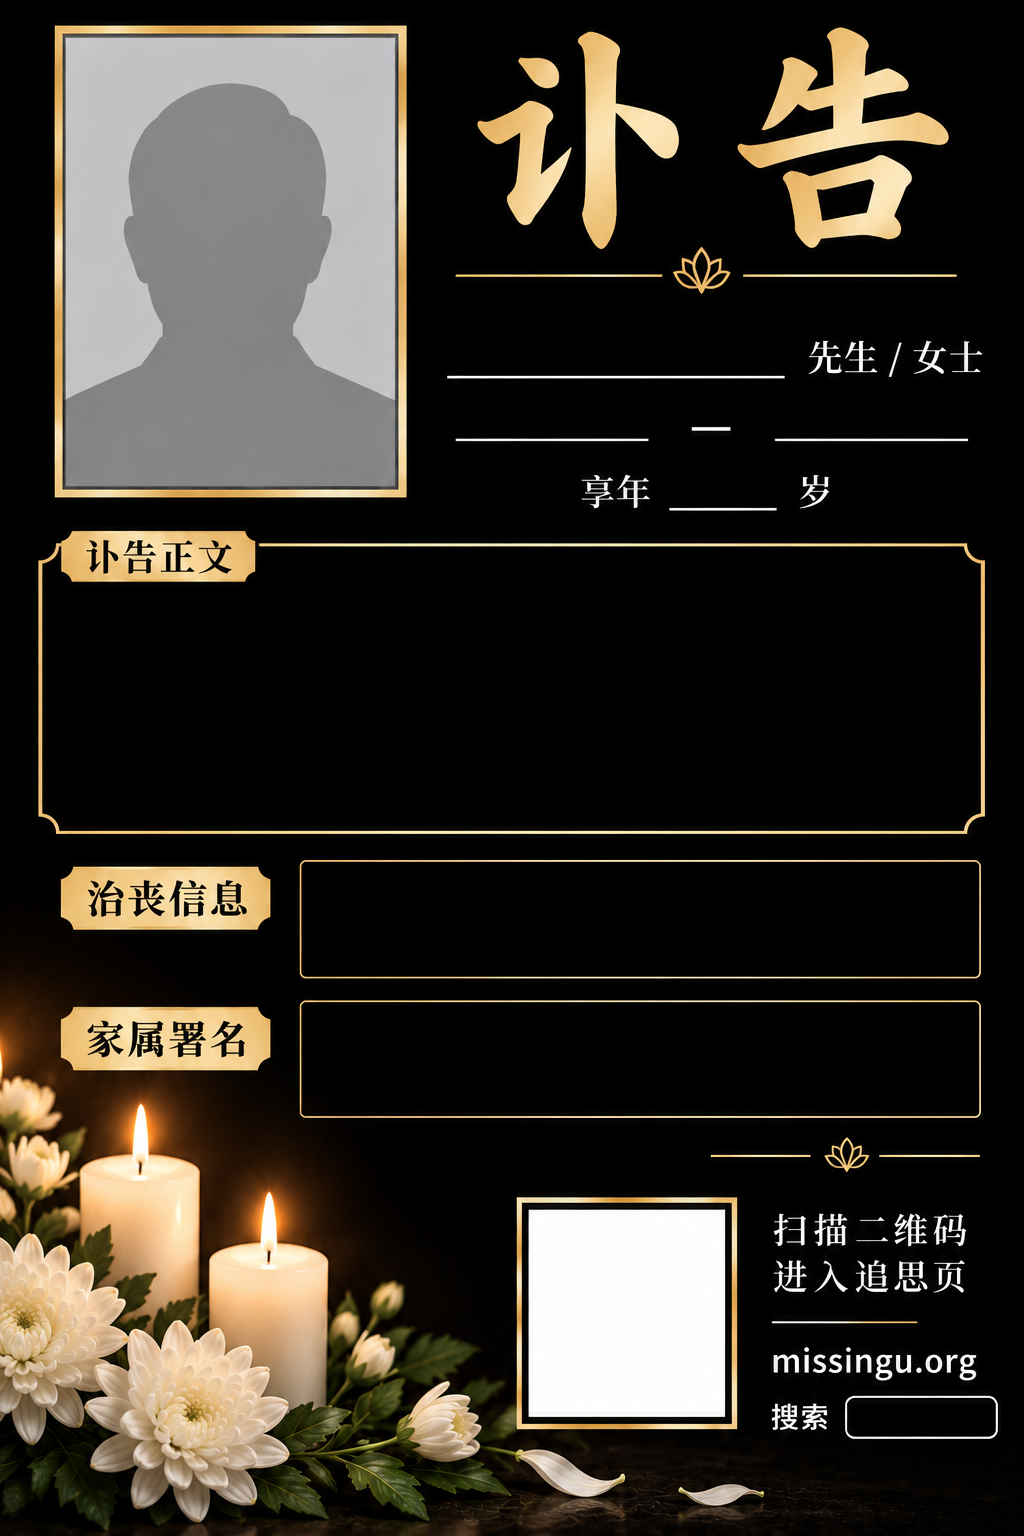
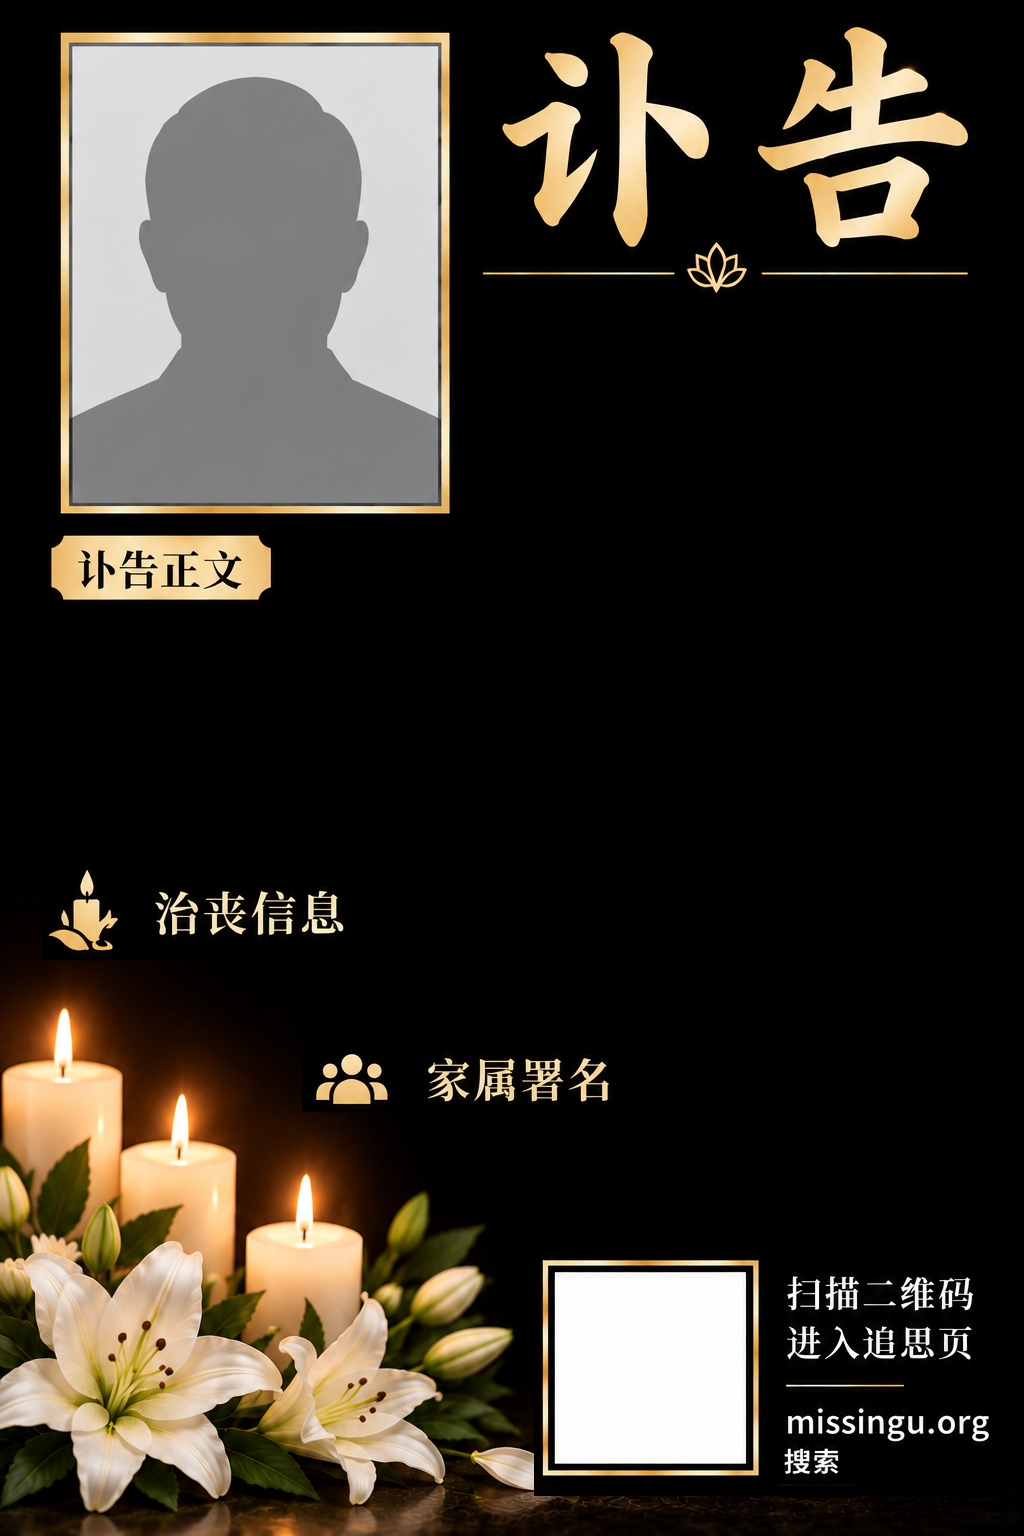
feat: 讣告海报适配新模板(去辅助线),重新定位姓名/称谓/生卒/享年/正文/治丧/署名/QR/编号,字体字号统一

diff --git a/memorial-platform/app/[locale]/memorials/[slug]/obituary/obituary-poster.ts b/memorial-platform/app/[locale]/memorials/[slug]/obituary/obituary-poster.ts
@@ -1,27 +1,26 @@
-// Draws the 讣告 poster by overlaying dynamic content onto the fixed black-gold
-// template (public/obituary/template-zh.png, 1024×1536). Every slot coordinate
-// is expressed in that 1024×1536 space; the template art is authoritative, this
-// module only fills the blanks.
+// Draws the 讣告 poster by overlaying dynamic content onto the black-gold
+// template (public/obituary/template-zh.png, 1024×1536). The template carries
+// only the fixed art and section labels (讣告 / 讣告正文 / 治丧信息 / 家属署名 /
+// QR / 搜索); everything else — name, honorific, dates, 享年, the body and the
+// section contents — is drawn here. Coordinates are in the 1024×1536 authoring
+// space and scaled to the template's real pixels at render time.
 
 export type PosterInput = {
   name: string;
   birth: string | null;
   death: string | null;
-  /** 享年 digits only (the template prints "享年 ___ 岁"). */
+  /** 享年 digits only; drawn as "享年 N 岁". */
   age: string | null;
-  /** male → 先生, female → 女士, null → leave the template's "先生 / 女士". */
+  /** male → 先生, female → 女士, null → no honorific. */
   gender: "male" | "female" | null;
   body: string;
   service: string | null;
   survivors: string | null;
-  /** Same-origin URL only (else the canvas taints and export fails). */
+  /** Same-origin/data URL only (a signed cross-origin URL taints the canvas). */
   portraitUrl: string | null;
   number: string | null;
 };
 
-// Slot coordinates are authored in this reference space; the renderer scales
-// them to the template image's real pixel size, so dropping in a higher-res
-// template (e.g. 2048×3072) sharpens everything with no code change.
 export const POSTER_W = 1024;
 export const POSTER_H = 1536;
 const TEMPLATE_SRC = "/obituary/template-zh.png";
@@ -40,24 +39,14 @@ function loadImage(src: string): Promise<HTMLImageElement> {
   });
 }
 
-/** Draw `text` centred at cx, shrinking the font until it fits maxW. */
-function fitCenter(
+function measure(
   ctx: CanvasRenderingContext2D,
   text: string,
-  cx: number,
-  baseline: number,
-  maxW: number,
-  startPx: number,
-  weight = "700",
-): void {
-  let px = startPx;
-  ctx.textAlign = "center";
-  do {
-    ctx.font = `${weight} ${px}px ${SERIF}`;
-    if (ctx.measureText(text).width <= maxW || px <= 18) break;
-    px -= 2;
-  } while (true);
-  ctx.fillText(text, cx, baseline);
+  px: number,
+  weight: string,
+): number {
+  ctx.font = `${weight} ${px}px ${SERIF}`;
+  return ctx.measureText(text).width;
 }
 
 /** Wrap text (respecting explicit newlines) to lines no wider than maxW. */
@@ -82,20 +71,12 @@ function wrapLines(
   return out;
 }
 
-/**
- * Renders the poster onto `ctx` (which must be a 1024×1536 context). `qr` is a
- * pre-rendered QR canvas/image (drawn into the template's white box); pass null
- * to leave it blank.
- */
 export async function drawObituaryPoster(
   ctx: CanvasRenderingContext2D,
   data: PosterInput,
   qr: HTMLCanvasElement | HTMLImageElement | null,
 ): Promise<void> {
   const template = await loadImage(TEMPLATE_SRC);
-  // Match the canvas to the template's real pixels, then scale the coordinate
-  // system back to the 1024×1536 authoring space so every slot lands correctly
-  // at whatever resolution the template ships at.
   const natW = template.naturalWidth || POSTER_W;
   const natH = template.naturalHeight || POSTER_H;
   ctx.canvas.width = natW;
@@ -107,17 +88,21 @@ export async function drawObituaryPoster(
   if (data.portraitUrl) {
     try {
       const img = await loadImage(data.portraitUrl);
-      const box = { x: 62, y: 46, w: 344, h: 456 };
+      const box = { x: 66, y: 46, w: 384, h: 466 };
       const scale = Math.max(box.w / img.width, box.h / img.height);
       const dw = img.width * scale;
       const dh = img.height * scale;
-      const dx = box.x + (box.w - dw) / 2;
-      const dy = box.y + (box.h - dh) / 2;
       ctx.save();
       ctx.beginPath();
       ctx.rect(box.x, box.y, box.w, box.h);
       ctx.clip();
-      ctx.drawImage(img, dx, dy, dw, dh);
+      ctx.drawImage(
+        img,
+        box.x + (box.w - dw) / 2,
+        box.y + (box.h - dh) / 2,
+        dw,
+        dh,
+      );
       ctx.restore();
     } catch {
       /* leave the placeholder silhouette */
@@ -126,77 +111,102 @@ export async function drawObituaryPoster(
 
   ctx.fillStyle = WHITE;
 
-  // Name — on the underline left of "先生 / 女士".
-  fitCenter(ctx, data.name, 617, 372, 330, 56);
-
-  // Honorific — keep only the one matching gender by painting over the printed
-  // "先生 / 女士" (solid black ground) and redrawing a single word.
-  if (data.gender) {
-    ctx.fillStyle = "#000000";
-    ctx.fillRect(793, 344, 200, 66);
-    ctx.fillStyle = WHITE;
+  // Name + honorific, centred in the right column beneath the 讣告 title.
+  const RIGHT_CX = 740;
+  {
+    const hon = data.gender
+      ? data.gender === "male"
+        ? "先生"
+        : "女士"
+      : "";
+    let namePx = 64;
+    const honPx = 36;
+    const gap = 14;
+    // Shrink the name until the whole name+honorific group fits the column.
+    const maxW = 470;
+    let nameW = measure(ctx, data.name, namePx, "700");
+    let honW = hon ? measure(ctx, hon, honPx, "600") + gap : 0;
+    while (nameW + honW > maxW && namePx > 30) {
+      namePx -= 2;
+      nameW = measure(ctx, data.name, namePx, "700");
+    }
+    const total = nameW + honW;
+    const x = RIGHT_CX - total / 2;
+    const baseline = 346;
     ctx.textAlign = "left";
-    ctx.font = `600 42px ${SERIF}`;
-    ctx.fillText(data.gender === "male" ? "先生" : "女士", 800, 392);
     ctx.fillStyle = WHITE;
+    ctx.font = `700 ${namePx}px ${SERIF}`;
+    ctx.fillText(data.name, x, baseline);
+    if (hon) {
+      ctx.font = `600 ${honPx}px ${SERIF}`;
+      ctx.fillText(hon, x + nameW + gap, baseline);
+    }
   }
 
-  // Birth / death — one on each gold line, either side of the dash.
-  ctx.font = `400 30px ${SERIF}`;
   ctx.textAlign = "center";
-  if (data.birth) ctx.fillText(data.birth, 554, 438);
-  if (data.death) ctx.fillText(data.death, 845, 438);
+  ctx.fillStyle = WHITE;
 
-  // 享年 — the number only, on the blank between 享年 and 岁.
-  if (data.age) {
-    ctx.font = `400 34px ${SERIF}`;
-    ctx.fillText(data.age, 732, 497);
+  // Dates.
+  const life =
+    data.birth && data.death
+      ? `${data.birth} — ${data.death}`
+      : data.birth || data.death || "";
+  if (life) {
+    ctx.font = `400 30px ${SERIF}`;
+    ctx.fillText(life, RIGHT_CX, 410);
   }
 
-  // Body — inside the big gold box, left-aligned and wrapped.
+  // 享年.
+  if (data.age) {
+    ctx.font = `400 32px ${SERIF}`;
+    ctx.fillText(`享年 ${data.age} 岁`, RIGHT_CX, 464);
+  }
+
+  // Body — beneath the 讣告正文 label, full width.
   ctx.textAlign = "left";
+  ctx.fillStyle = WHITE;
   ctx.font = `400 30px ${SERIF}`;
   {
-    let y = 612;
-    for (const line of wrapLines(ctx, data.body, 864)) {
-      if (y > 852) break;
-      ctx.fillText(line, 82, y);
-      y += 46;
+    let y = 672;
+    for (const line of wrapLines(ctx, data.body, 915)) {
+      if (y > 880) break;
+      ctx.fillText(line, 60, y);
+      y += 45;
     }
   }
 
-  // Funeral info (治丧信息) box.
+  // 治丧信息 content — to the right of the candle icon + label row.
   if (data.service) {
-    ctx.font = `400 26px ${SERIF}`;
-    let y = 918;
-    for (const line of wrapLines(ctx, data.service, 632)) {
-      if (y > 978) break;
-      ctx.fillText(line, 322, y);
+    ctx.font = `400 27px ${SERIF}`;
+    let y = 990;
+    for (const line of wrapLines(ctx, data.service, 820)) {
+      if (y > 1055) break;
+      ctx.fillText(line, 150, y);
       y += 38;
     }
   }
 
-  // Family signatures (家属署名) box.
+  // 家属署名 content — clear of the candle photo, to the right.
   if (data.survivors) {
-    ctx.font = `400 26px ${SERIF}`;
-    let y = 1044;
-    for (const line of wrapLines(ctx, data.survivors, 632)) {
-      if (y > 1104) break;
-      ctx.fillText(line, 322, y);
+    ctx.font = `400 27px ${SERIF}`;
+    let y = 1155;
+    for (const line of wrapLines(ctx, data.survivors, 560)) {
+      if (y > 1250) break;
+      ctx.fillText(line, 415, y);
       y += 38;
     }
   }
 
-  // QR into the white box (with a little inset).
+  // QR into the white box (template box ≈ x555–758, y1273–1472).
   if (qr) {
-    ctx.drawImage(qr, 520, 1236, 206, 206);
+    ctx.drawImage(qr, 562, 1284, 184, 184);
   }
 
-  // Public number in the 搜索 box.
+  // Public number after the 搜索 label.
   if (data.number) {
     ctx.fillStyle = WHITE;
-    ctx.textAlign = "center";
+    ctx.textAlign = "left";
     ctx.font = `600 30px ${SERIF}`;
-    ctx.fillText(data.number, 908, 1503);
+    ctx.fillText(data.number, 862, 1497);
   }
 }
